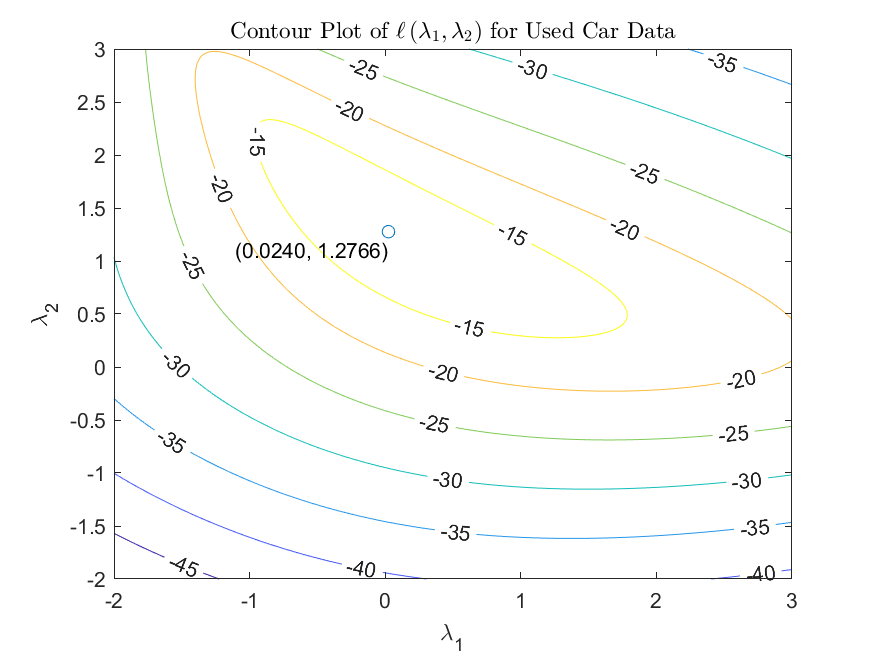
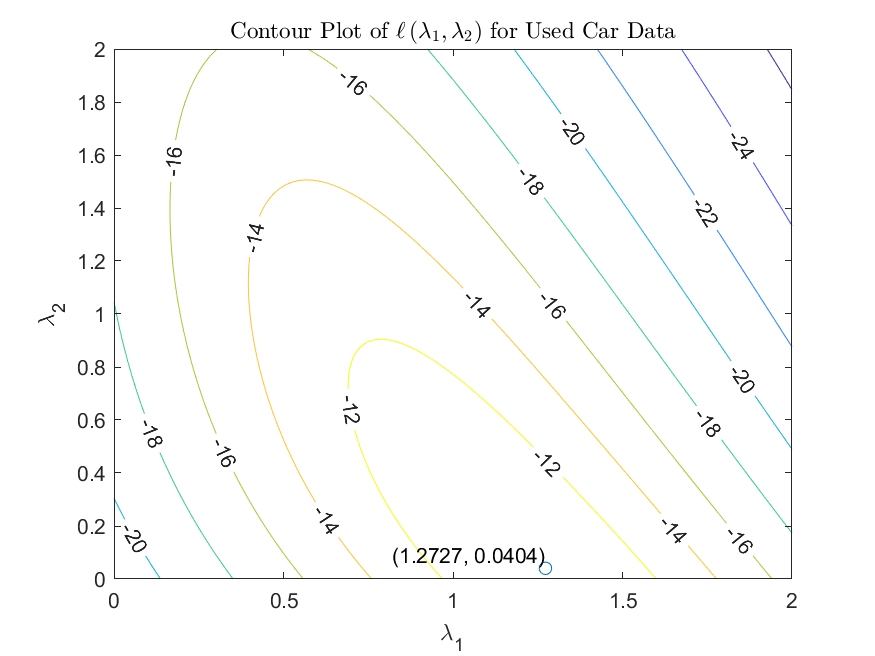
Update to question 4.30.

diff --git a/chapter-4/question-4-30.tex b/chapter-4/question-4-30.tex
@@ -19,13 +19,13 @@ Consider the used-car data in Exercise 4.26.
         \includegraphics[scale=0.8]{./matlab/chapter-4/sol4.30c.png}
     \end{figure}
     \begin{figure}[H]
-        \includegraphics[scale=0.8]{./matlab/chapter-4/sol4.30c_surf.png}
+        \includegraphics[scale=0.3]{./matlab/chapter-4/sol4.30c_surf.png}
     \end{figure}
     \par
     Using the joint distribution of $x_{1}$ and $x_{2}$,
      the simultaneous maximum for the \"best\" power transformation
-     was found at $\hat{\bm{\lambda}}^{\prime} = [\hat{\lambda}_{1}, \hat{\lambda}_{2}] = [0.0202, 1.2828]$.
-    That is, for vehicle age was $\hat{\lambda}_{1} = 0.0202$, and for sale price was $\hat{\lambda}_{2} = 1.2828$.
+     was found at $\hat{\bm{\lambda}}^{\prime} = [\hat{\lambda}_{1}, \hat{\lambda}_{2}] = [1.2727, 0.0404]$.
+    That is, for vehicle age was $\hat{\lambda}_{1} = 1.2727$, and for sale price was $\hat{\lambda}_{2} = 0.0404$.
     These are a bit different from parts a and b where we were maximizing the univariate likelihood.
     In those cases the maximum for vehicle age was $\hat{\lambda}_{1} = 0.3636$ and for vehicle price was $\hat{\lambda}_{2} = 0.9394$.
 \end{enumerate}
